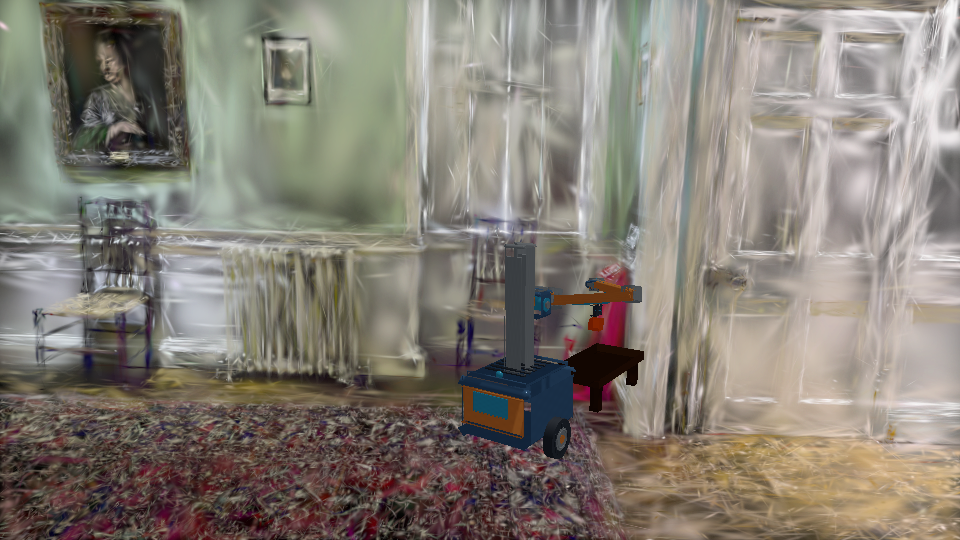
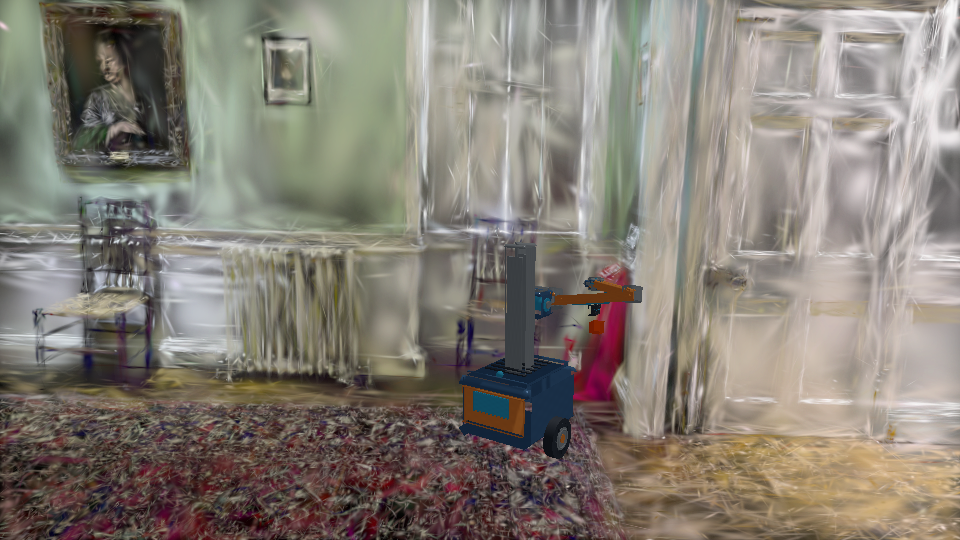
fix(readme): remove synthetic 3dgs pickup table (#212)

diff --git a/examples/89_house_mobile_lift_hero/main.rs b/examples/89_house_mobile_lift_hero/main.rs
@@ -5,7 +5,7 @@
 //! post-physics world transform of each of the ten URDF links, then resolved
 //! through the visual-only manifest and PBR-aware [`rne_render::MeshRenderCache`].
 //! The Dr Johnson scan is calibrated into the same Y-up metric frame as the
-//! physics rollout. The measured floor and pickup furniture share that frame;
+//! physics rollout. The measured floor and invisible pickup support share that frame;
 //! 3DGS remains the appearance layer.
 //!
 //! Headless evidence (no GPU required):
@@ -52,9 +52,7 @@ const PAYLOAD_NAME: &str = "mobile_lift_cube";
 const TARGET_X_M: f64 = -1.70;
 const TARGET_Y_M: f64 = 0.035;
 const TARGET_Z_M: f64 = -3.30;
-const PICKUP_X_M: f64 = 0.50;
-const DRJOHNSON_FLOOR_Z_M: f64 = -3.30;
-const DRJOHNSON_COLLISION_PROXIES: [&str; 1] = ["mobile_lift_pick_table"];
+const DRJOHNSON_COLLISION_PROXIES: [&str; 1] = ["mobile_lift_pick_support"];
 const LINK_NAMES: [&str; 10] = [
     "base_link",
     "left_wheel",
@@ -328,7 +326,9 @@ fn rollout(
     capture: bool,
     expected_steps: Option<u64>,
 ) -> Result<Rollout> {
+    let mut policy = IkMobileLiftPickPlacePolicy::new();
     let mut config = MobileManipulatorEpisodeConfig::mobile_lift_pick_place();
+    config.max_steps = policy.total_steps();
     config.scene_path = scene_path.to_path_buf();
     config.task = rne_ai::MobileManipulatorTask::Place {
         object_name: PAYLOAD_NAME.into(),
@@ -336,7 +336,6 @@ fn rollout(
         place_tolerance_m: 0.12,
     };
     let mut episode = MobileManipulatorEpisode::new(config);
-    let mut policy = IkMobileLiftPickPlacePolicy::new();
     let mut step = episode.reset();
     episode.set_grasp_mode(GraspMode::Friction);
     for proxy in DRJOHNSON_COLLISION_PROXIES {
@@ -580,26 +579,6 @@ fn mobile_lift_foreground(
         [0.95, 0.20, 0.035, 1.0],
         PbrMaterial::new([0.95, 0.20, 0.035, 1.0], 0.28, 0.38, [0.03, 0.005, 0.0]),
     ));
-    // Dress the narrow physics pickup rail as a dark-wood task trolley that
-    // belongs on the captured Dr Johnson floor. Its top remains aligned with the
-    // physical support; the legs are visual context only.
-    let wood = PbrMaterial::new([0.30, 0.16, 0.07, 1.0], 0.03, 0.76, [0.0; 3]);
-    scene.items.push(box_item(
-        Vec3::new(PICKUP_X_M, 0.19, DRJOHNSON_FLOOR_Z_M),
-        Vec3::new(0.70, 0.055, 0.34),
-        [0.30, 0.16, 0.07, 1.0],
-        wood.clone(),
-    ));
-    for x in [PICKUP_X_M - 0.28, PICKUP_X_M + 0.28] {
-        for z in [DRJOHNSON_FLOOR_Z_M - 0.12, DRJOHNSON_FLOOR_Z_M + 0.12] {
-            scene.items.push(box_item(
-                Vec3::new(x, 0.085, z),
-                Vec3::new(0.055, 0.17, 0.055),
-                [0.22, 0.11, 0.045, 1.0],
-                wood.clone(),
-            ));
-        }
-    }
     cache
         .resolve_scene(&mut scene, package_roots)
         .context("resolve mm_mobile_lift PBR links")?;

diff --git a/crates/rne_ai/src/env/mobile_manipulator/sim.rs b/crates/rne_ai/src/env/mobile_manipulator/sim.rs
@@ -1160,17 +1160,21 @@ impl MobileManipulatorSim {
         let desired_velocity =
             (target_position_m - object_position_m) * MOBILE_LIFT_LINEAR_FRICTION_POSITION_GAIN_HZ;
         let mut relative_velocity = desired_velocity - object_velocity;
-        let pickup_table = self.named_entities.get("mobile_lift_pick_table").copied();
-        let supported_by_pickup_table = self.last_contacts().iter().any(|contact| {
+        let pickup_support = self
+            .named_entities
+            .get("mobile_lift_pick_support")
+            .or_else(|| self.named_entities.get("mobile_lift_pick_table"))
+            .copied();
+        let supported_by_pickup_support = self.last_contacts().iter().any(|contact| {
             let touches_object = contact.entity_a == object || contact.entity_b == object;
             let other = if contact.entity_a == object {
                 contact.entity_b
             } else {
                 contact.entity_a
             };
-            touches_object && pickup_table == Some(other)
+            touches_object && pickup_support == Some(other)
         });
-        if supported_by_pickup_table {
+        if supported_by_pickup_support {
             if wrist_velocity.y > 0.02 {
                 relative_velocity.y = relative_velocity.y.max(0.2 - object_velocity.y);
             }

diff --git a/docs/README_SHOWCASE.md b/docs/README_SHOWCASE.md
@@ -27,13 +27,13 @@ observation state.
 
 | Showcase | GIF / poster | GIF bytes | poster bytes | poster size |
 | --- | --- | ---: | ---: | ---: |
-| Real indoor 3DGS mobile manipulation | `house-mobile-manipulation.gif` / `.png` | 293,517 | 907,608 | 960 x 540 |
+| Real indoor 3DGS mobile manipulation | `house-mobile-manipulation.gif` / `.png` | 291,944 | 910,890 | 960 x 540 |
 | Tsukuba Challenge | `showcase-tsukuba.gif` / `.png` | 2,262,164 | 18,815 | 960 x 540 |
 | Factory inspection | `showcase-factory.gif` / `.png` | 1,830,619 | 52,228 | 960 x 540 |
 | Office AGV delivery | `showcase-office.gif` / `.png` | 1,935,863 | 18,240 | 960 x 540 |
 | PLATEAU UAV RGB-D flight | `showcase-uav.gif` / `.png` | 4,329,461 | 439,474 | 960 x 540 |
 
-The current GIF total is **10,651,624 bytes**, below the 12,000,000-byte
+The current GIF total is **10,650,051 bytes**, below the 12,000,000-byte
 combined ceiling. `showcase-media-check` verifies the exact total; regeneration
 must update the manifest's sizes and hashes in the same change.
 
@@ -41,7 +41,7 @@ must update the manifest's sizes and hashes in the same change.
 
 | Showcase | Required simulation evidence |
 | --- | --- |
-| Real indoor 3DGS mobile manipulation | Real friction grasp; terminated without truncation; lift clearance at least 0.20 m; payload transport at least 2.0 m; placement error at most 0.10 m; all ten authored PBR links synchronized with zero recorded transform error. |
+| Real indoor 3DGS mobile manipulation | Real floor-level friction grasp; terminated without truncation; lift clearance at least 0.20 m; payload transport at least 2.0 m; placement error at most 0.10 m; all ten authored PBR links synchronized with zero recorded transform error; no synthetic room furniture is rendered. |
 | Tsukuba Challenge | Three stop lines and three signal waits complete; no roadway entry or unstopped overshoot; headless and capture replay digests match. |
 | Factory inspection | Official G1 articulation completes all three markers upright; at least 20 mesh items are rendered; replay digest matches. |
 | Office AGV delivery | Yield, dock pickup, desk delivery, and desk placement complete; no contact, corridor exit, or early drop; replay digest matches. |
@@ -50,8 +50,10 @@ must update the manifest's sizes and hashes in the same change.
 The indoor hero uses the photo-derived Voxel51/Graphdeco Dr Johnson capture
 under Apache-2.0. Its published COLMAP cameras establish the transform into
 RNE's Y-up metric simulation frame. The colour renderer applies that same
-manifest transform, and the ground and pickup-table colliders share the measured
-floor frame, so the scan is an executable room rather than a viewer backdrop.
+manifest transform, and the ground plus a 3 cm collision-only pickup support
+share the measured rug/floor frame, so the scan is an executable room rather
+than a viewer backdrop. The collision support is never rendered: the robot
+picks directly at rug level without inventing furniture absent from the capture.
 The committed derivative keeps every tenth upstream position, DC colour,
 opacity, scale, and rotation record byte-for-byte. The UAV view uses official
 PLATEAU Sanjo City geometry, a controlled visible airframe, and synchronized

diff --git a/README.md b/README.md
@@ -26,7 +26,7 @@ The quantitative gates and exact regeneration commands are in
         <img src="docs/media/house-mobile-manipulation.gif" alt="PBR mobile manipulator navigating, grasping, carrying, and placing an object on the floor of a real captured indoor 3DGS environment" width="900">
       </picture>
       <br><b>Real indoor 3DGS · mobile manipulation</b><br>
-      <sub>Voxel51 Dr Johnson is a real photo-derived interior 3DGS. Its measured COLMAP frame, wood floor, robot bodies, and task furniture now share one metric transform. A 10-link PBR robot completes friction grasp, lift, 2.145 m transport, and placement. <a href="docs/media/house-mobile-manipulation.json">metadata</a> · <a href="examples/89_house_mobile_lift_hero/main.rs">source</a></sub>
+      <sub>Voxel51 Dr Johnson is a real photo-derived interior 3DGS. Its measured COLMAP frame, captured rug, and robot bodies share one metric transform without adding synthetic room furniture. A 10-link PBR robot completes floor-level friction grasp, lift, 2.128 m transport, and placement. <a href="docs/media/house-mobile-manipulation.json">metadata</a> · <a href="examples/89_house_mobile_lift_hero/main.rs">source</a></sub>
     </td>
   </tr>
   <tr>

diff --git a/CHANGELOG.md b/CHANGELOG.md
@@ -23,6 +23,11 @@ All notable changes to Robot Native Engine are documented in this file.
   onboard RGB-D, bounded tracking, 12.21 m building clearance, zero collisions,
   and deterministic replay evidence.
 
+- Remove the synthetic pickup table from the Dr Johnson 3DGS hero. The payload
+  now rests on a collision-only 3 cm support aligned with the captured rug, and
+  the longer floor-level episode budget preserves deterministic friction grasp,
+  lift, transport, and placement without adding room furniture to the scan.
+
 - Upgrade `docs/media/showcase.toml` to a schema-v2 catalog that verifies exact
   bytes, SHA-256 values, dimensions, README references, deterministic metadata,
   source provenance, license files, per-file limits, and a 12 MB combined GIF
